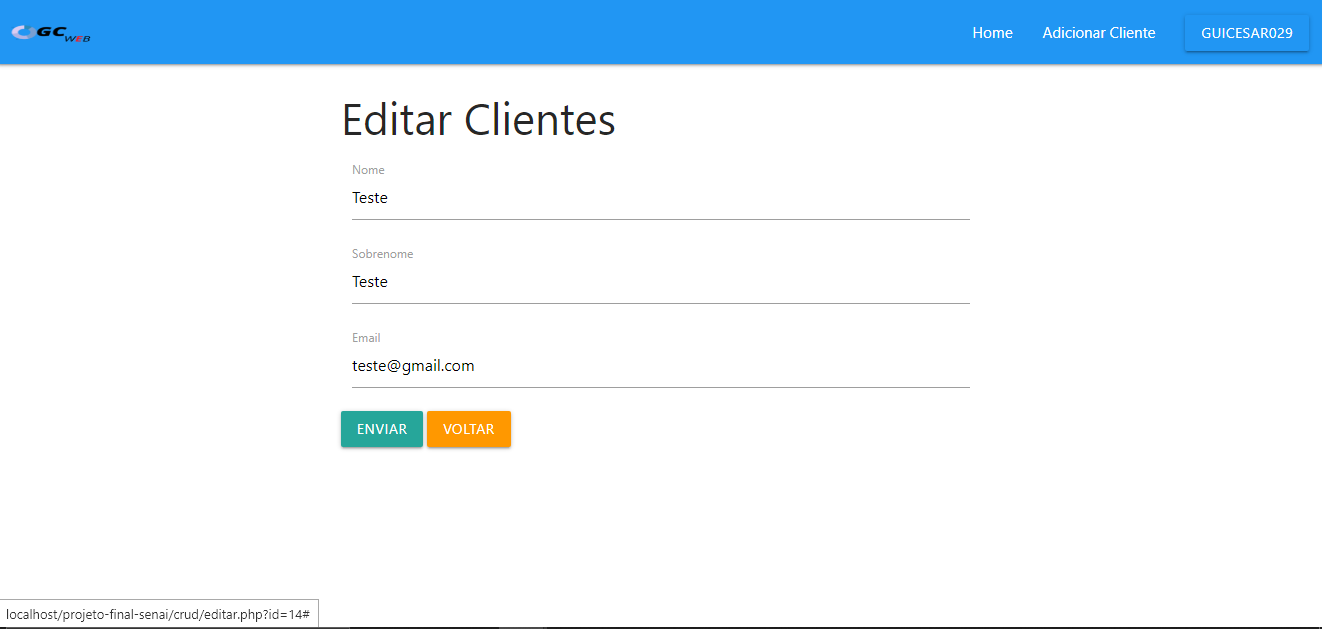
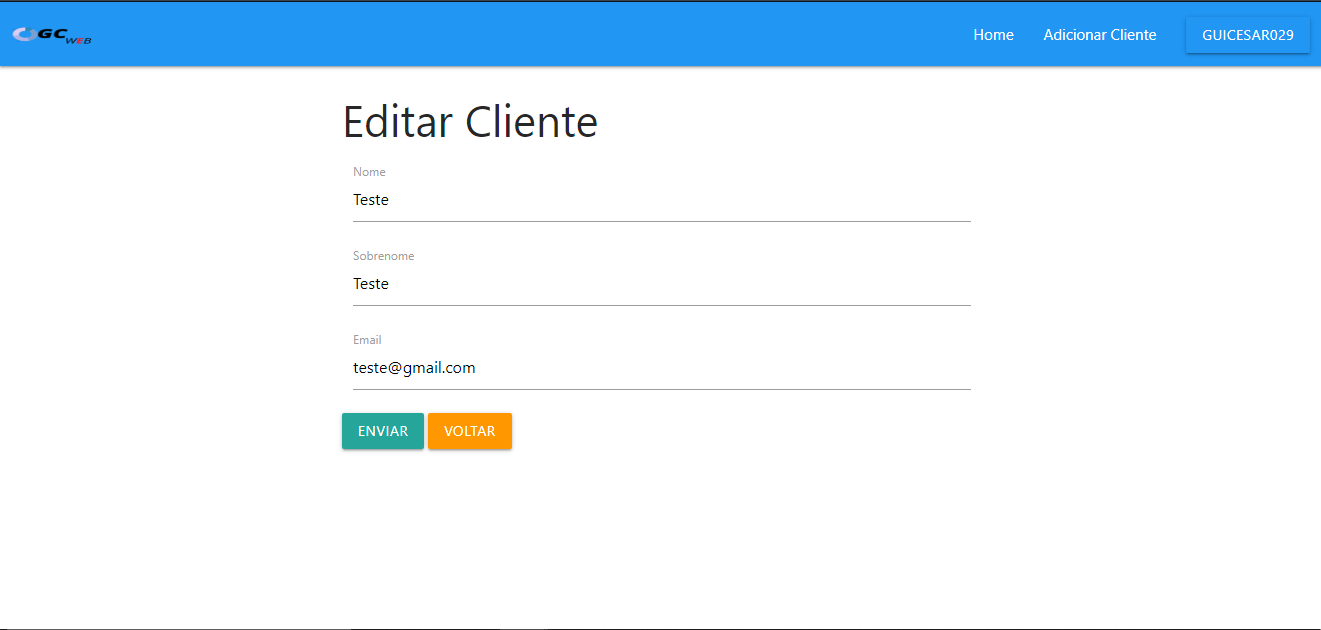
Atualizando tela de editar cliente

diff --git a/crud/editar.php b/crud/editar.php
@@ -17,7 +17,7 @@ endif;
 
 <div class="row">
     <div class="col s12 m6 push-m3">
-        <h3 class="ligth">Editar Clientes</h3>
+        <h3 class="ligth">Editar Cliente</h3>
         <form action="php_action/update.php" method="POST">
             <input type="hidden" name="id" value="<?php echo $dados['id']; ?>">
             <div class="input-field col s12">
